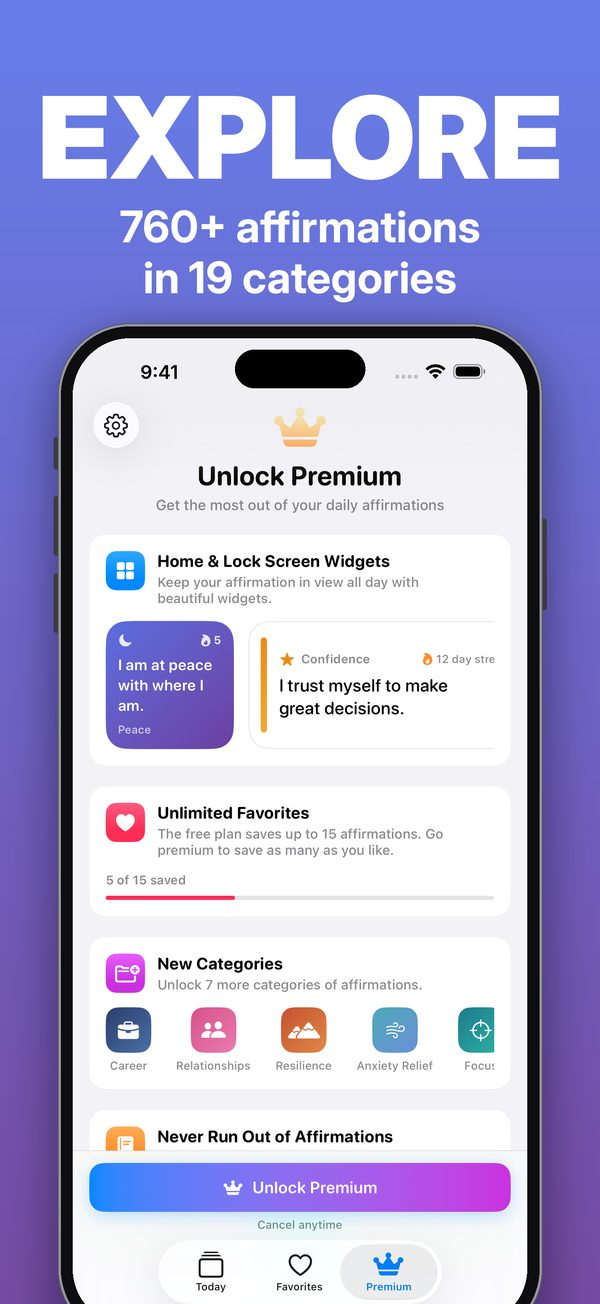
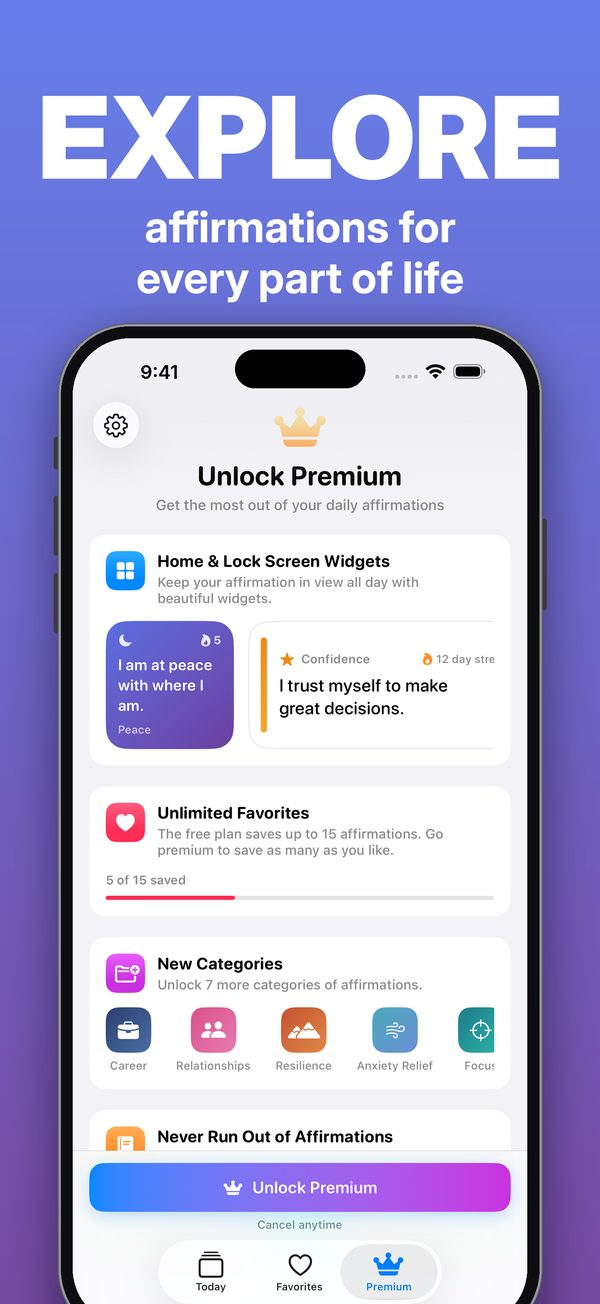
App page: new Explore screenshot without the affirmation count
Claude-Session: https://claude.ai/code/session_0143J9ppDvKCcZdXRLNv9N73

Changed region(s): [[0.21, 0.1534, 0.81, 0.2454]]

diff --git a/dailyaffirmationsapp/index.html b/dailyaffirmationsapp/index.html
@@ -163,7 +163,7 @@ footer .love { margin-top: 8px; } footer .love span { color: #e2667a; }
         <img src="img/04-get.jpg" alt="Get a gentle daily reminder" loading="lazy" width="600" height="1304">
         <img src="img/05-build.jpg" alt="Build a daily habit" loading="lazy" width="600" height="1304">
         <img src="img/06-save.jpg" alt="Save the ones you love" loading="lazy" width="600" height="1304">
-        <img src="img/07-explore.jpg" alt="Explore hundreds of affirmations" loading="lazy" width="600" height="1304">
+        <img src="img/07-explore.jpg" alt="Explore affirmations for every part of life" loading="lazy" width="600" height="1304">
         <img src="img/08-share.jpg" alt="Share a little positivity" loading="lazy" width="600" height="1304">
       </div>
     </div>
